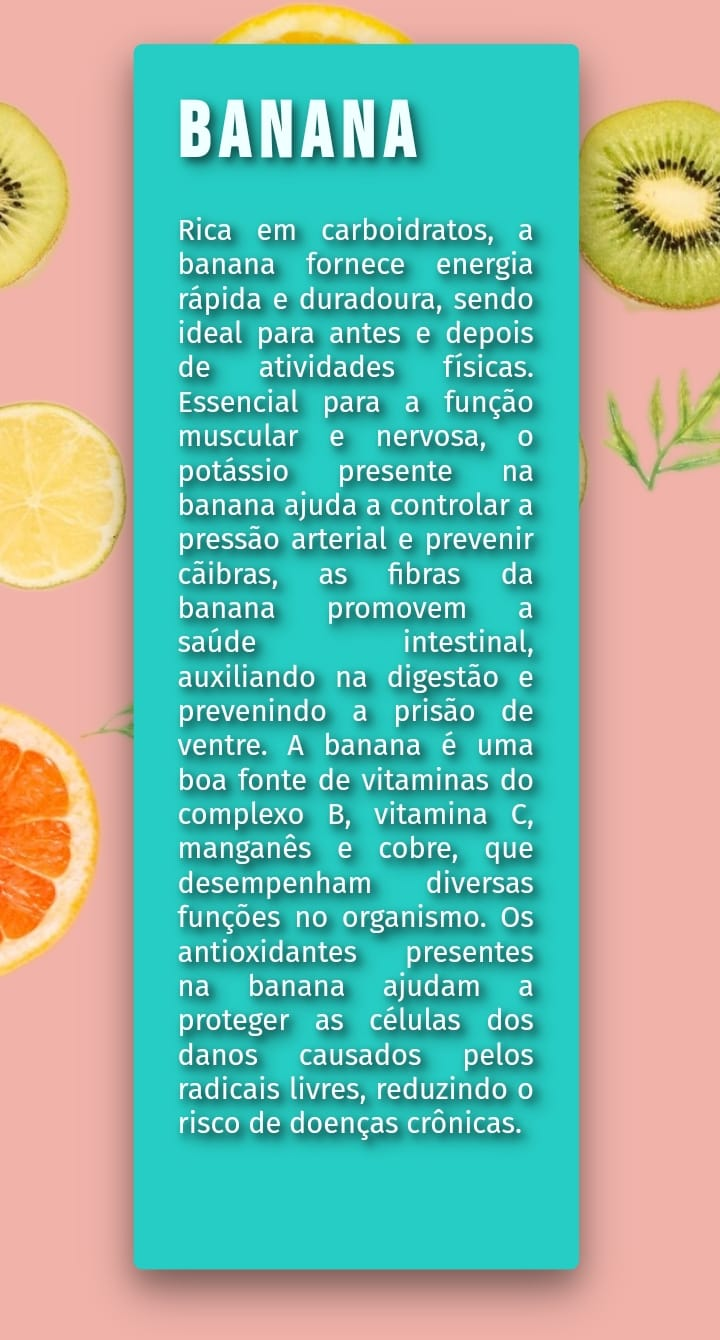
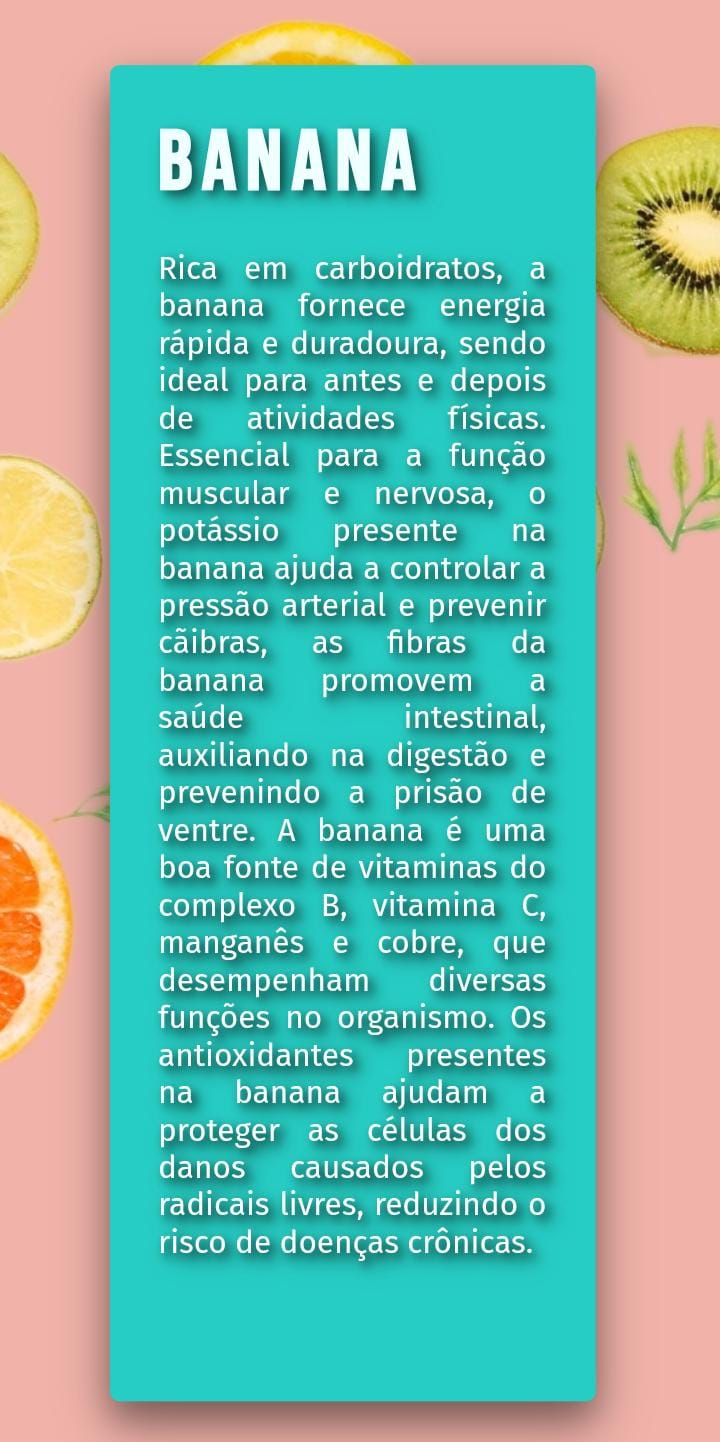
adição de mais partes responsivas

diff --git a/src/estilos-responsivos/projetos-respons.css b/src/estilos-responsivos/projetos-respons.css
@@ -40,6 +40,16 @@
        gap: 15px;
        width: 100%;
     }
+
+    .cabecalho-menu-link{
+        padding:5px 0px;
+        width: 130px;
+        font-size: 14px;
+    }
+
+    .cabecalho-menu-link:hover{
+        padding: 5px 0px;
+    }
 }
 
 @media (max-width: 630px){
@@ -81,6 +91,10 @@
 }
 
 @media (max-width: 520px){
+
+    body{
+        padding: 10px 20px;
+    }
     
     .cabecalho-menu{
         display: flex;
@@ -93,15 +107,18 @@
      }
 
      .cabecalho-menu-link {
-        padding: 5px;
-        width: 98px;
-        height: 42px;
+        padding: 5px 4px;
+        /* width: 95px; */
+        height: 30px;
         font-size: 12px;
         text-align: center;
+        padding: 3px 5px;
     }
+    
     .cabecalho-menu-link:hover{
-        padding: 5px ;
+        padding: 5px 4px;
     }
+
 
     .projetos .titulo{
         font-size: 2.8rem;
@@ -109,14 +126,30 @@
     }
 }
 
-@media (max-width: 385px){
+@media (max-width: 430px){
+    .cabecalho{
+        width: 100%;
+    }
 
     .cabecalho-menu{
+        width: 100%;
         gap: 8px;
+        display: flex;
+        align-items: center;
+        justify-content: center;
+
     }
 
     .cabecalho-menu-link{
-        font-size: 0.6rem;
+        text-align: center;
+        font-size: 12px;
+        height: 35px;
+        padding:  5px ;
+        margin: 0;
+    }
+    
+    .cabecalho-menu-link:hover{
+        padding: 5px ;
     }
 
     .projetos .titulo{
@@ -128,5 +161,16 @@
         width: 150px;
         padding: 10px;
         font-size: 1.1rem;
+    }
+}
+
+@media (max-width: 385px){
+
+    .cabecalho-menu{
+        gap: 8px;
+    }
+
+    .cabecalho-menu-link{
+        font-size: 0.6rem;
     }
 }

diff --git a/projetos.html b/projetos.html
@@ -14,7 +14,6 @@
     <link href="https://fonts.googleapis.com/css2?family=Bebas+Neue&display=swap" rel="stylesheet">
     <link href="https://fonts.googleapis.com/css2?family=Poppins:ital,wght@0,100;0,200;0,300;0,400;0,500;0,600;0,700;0,800;0,900;1,100;1,200;1,300;1,400;1,500;1,600;1,700;1,800;1,900&family=Raleway:ital,wght@0,100..900;1,100..900&display=swap"rel="stylesheet"/>
 
-    <link rel="stylesheet" href="reset.css">
     <link rel="stylesheet" href="./src/projetos.css">
     <link rel="stylesheet" href="./src/estilos-responsivos/projetos-respons.css">
 
@@ -58,7 +57,7 @@
         <a href="https://inspiracao-site-valorant-desk-top.netlify.app/"
           target="_blank">
           <img
-            src="./imagens/projetos/vava.png" width="515px" height="700px"
+            src="./imagens/projetos/vava.png" 
             alt="Projeto valorant"/>
           <h3>Projeto Valorant (deskTop) </h3>
           
@@ -238,9 +237,10 @@
       <div class="projeto">
         <a href="https://beneficios-frutas.netlify.app/" target="_blank">
           <img
-            src="/imagens/projetos/frutas.jpg" alt=" projeto frutas"/>
-          
-            <h3>Projeto Frutas</h3>
+            src="./imagens/projetos/frutas.jpg"
+            alt=" projeto benefícios das frutas"
+          />
+          <h3>Projeto frutas</h3>
           <div class="informacoes-projeto">
             <p>Projeto feito usando HTML, CSS e JavaScript</p>
             <p>🔗 Ver no netlify.app</p>

diff --git a/src/projetos.css b/src/projetos.css
@@ -30,6 +30,7 @@ body {
 	font-family: "Bebas Neue";
 	margin: 0 auto;
 	max-width: 1120px;
+	background-attachment: fixed;
 	background-image: url(../imagens/projetos-fundo.jpg);
 	background-size: cover;
 	height: 100%;
@@ -39,7 +40,10 @@ body {
 }
 
 .cabecalho-menu-link {
-	width: 145px;
+	width: 140px;
+	display: flex;
+	align-items: center;
+	justify-content: center;
 	background-color: #00000053;
 	font-family: "Doto", sans-serif;
     font-size: 1.05rem;
@@ -47,7 +51,7 @@ body {
     color: #fdfdfd;
     text-decoration: none;
 	text-align: center ;
-     gap: 210px;
+     gap: 200px;
      letter-spacing: 1px;
      padding: 5px 15px;
      border: 0.2px #fff solid;
@@ -55,22 +59,23 @@ body {
 }
 
 .cabecalho {
+	width: 100%;
+	display: flex;
+	align-items: center;
+    justify-content: center;
     padding: 2% 0% -0% 0%; 
 	font-family: "Doto", sans-serif; 
     background-color: transparent;
-    display: flex;
-	align-items: center;
-    justify-content: center;
-	margin-top: 18px;
+	margin-top: 38px;
 
 }
 
 .cabecalho-menu{
 	width: 100%;
-    gap: 120px;
     display: flex;
     justify-content: center;
     align-items: center;
+    gap: 110px;
     padding-bottom: 30px;
 }
 
@@ -125,6 +130,7 @@ body {
 }
 
 .projetos .projeto img {
+	width: 100%;
 	height: 100%;
 }
 

diff --git a/src/estilos-responsivos/index-respons.css b/src/estilos-responsivos/index-respons.css
@@ -215,7 +215,7 @@
         display: flex;
         justify-content: center;
         align-items: center;
-        margin-top: 190px;
+        margin-top: 170px;
         margin-bottom: 90px;
         width: 250px;
         height: 50px;
@@ -258,7 +258,7 @@
     }
 
     .textos-home{
-        margin-bottom: 40px;
+        margin-bottom: 30px;
     }
 
     .apresentacao-conteudo-titulo{
@@ -295,9 +295,12 @@
 @media (max-width: 385px){
 
     .cabecalho-menu{
-        gap: 7px;
+        gap: 8px;
     }
-   
+
+    .cabecalho-menu-link{
+        font-size: 0.6rem;
+    }
 
     .links-subtitulo{
         font-size: 1.0rem;

diff --git a/src/styles.css b/src/styles.css
@@ -76,6 +76,7 @@ body {
 
 .inicio{
     height: 100%;
+    background-attachment: fixed;
     background-image: url(../imagens/fundo-habil.jpg);
     background-repeat: no-repeat;
     background-size: cover;
@@ -208,6 +209,7 @@ div .imagem {
 }
 
 .sobre-mim{
+    background-attachment: fixed;
     background-image: url(../imagens/fundo-habil.jpg);
     background-size: cover;
     background-repeat: no-repeat;

diff --git a/src/estilos-responsivos/about-respons.css b/src/estilos-responsivos/about-respons.css
@@ -146,7 +146,11 @@
 @media (max-width: 385px){
 
     .cabecalho-menu{
-        gap: 7px;
+        gap: 8px;
+    }
+
+    .cabecalho-menu-link{
+        font-size: 0.6rem;
     }
 
     .gmail{
